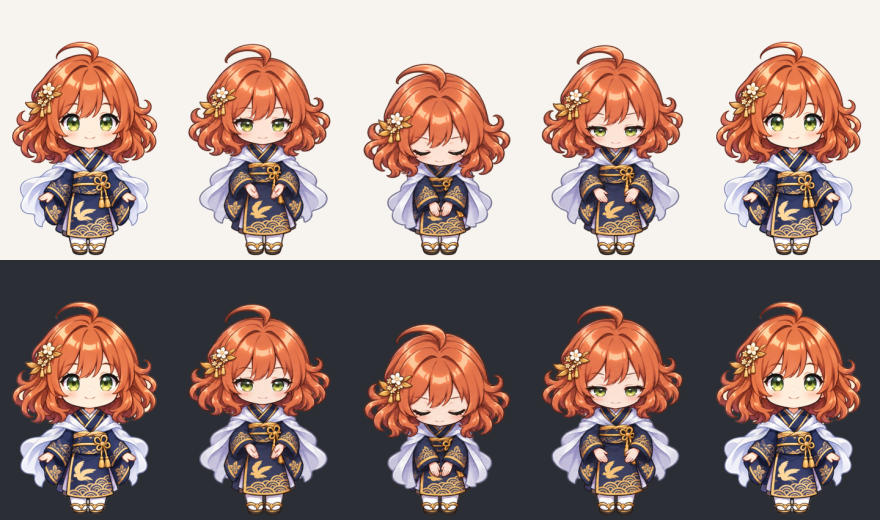
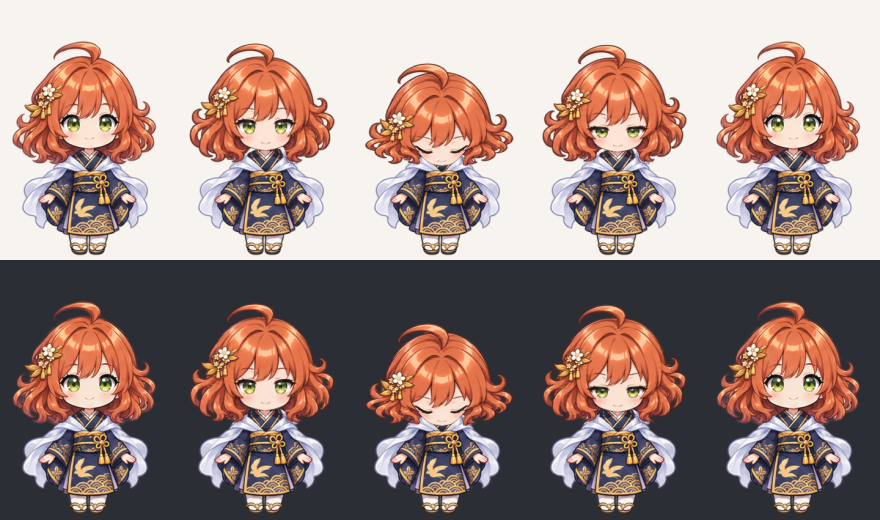
起動のお辞儀の肩と足を固定し、右クリックの左右の首かしげを揃える

diff --git a/artwork-review/startup-bow/README.md b/artwork-review/startup-bow/README.md
@@ -1,10 +1,36 @@
-# 起動のお辞儀 ｜ 素材レビュー
+# 起動のお辞儀
 
-[透過スプライト](sprite.png) ・ [260 DIP相当の比較](compare-260.png)
+再試用版 `28335730` の3枚の作画から伏し目、閉じたまぶた、流れる前髪を取り、製品の正面セルに肩の位置と胴の幅を合わせた。首の下の襟だけが前屈についていき、襟合わせの下端・両肩・袖・手・裾・足は元の座標に残る。頂点では顎が襟の上まで沈む。
 
-比較画像は左から **基準立ち絵 → 移行 → 頂点 → 戻り → 基準立ち絵**。上段は明色、下段は暗色の背景。各列は96 DPI想定の176×260 pxのウィンドウ、反応セルの描画域は176×225 px（上から35 px）。両端は指定コミットの `Mascot.png` を静止時の接地・寸法に合わせたもの。
+[明暗の等倍比較](compare-260.png) ・ [再生見本](playback-260.png) ・ [通常立ち絵との画素差](body-difference.png) ・ [基準セル](../conversation-open/reference-neutral.png)
 
-- RGBA PNG、864×368 px。左上を原点に、切り出し矩形 `[x,y,幅,高さ]` は `[0,0,288,368]`、`[288,0,288,368]`、`[576,0,288,368]`。共通足アンカーは各セルの `(144,360)`。
-- 再生案は既存の静止 → 左260 ms → 中150 ms → 右300 ms → 既存の静止。全3コマとも足裏の最下行は不透明度50%以上で y=359。頭頂はセル内で y=15 → 47 → 17。頂点で上体・襟・肩が沈み、両袖が寄り、手が揃う。比較画像で顔・鶴・飾りの向きと、明暗の輪郭を目視。
-- 三つの別作画を共通の倍率・足基準で配置。参照は `86fceaf8f7742112f7c0457c85ce02b400be06ad` の同梱素材。元の静止から移るところで開いた手が腹前へ寄る間隔は、再生で確認したい箇所。
-- 差し替え検討用。アプリへの組み込み、採用の確定、Windows実機での再生確認は未実施。
+各セルは288×368 px、足アンカーは `(144,360)`。スプライトは864×368 px。通常立ち絵から入り・頂点・戻りを経て通常へ戻る。再生時間は**520＋300＋600＝1,420 ms**。再生見本の最初の静止1秒はこの時間に含まない。
+
+| ポーズ | 切り出し（x, y, 幅, 高さ） | 時間 | 頭頂 y¹ | 個別PNGのGit blob SHA |
+| --- | --- | ---: | ---: | --- |
+| [入り](cells/entry.png) | 0, 0, 288, 368 | 520 ms | 15 | `f8d6940a88f4d7ab7c14d15456a30daa1325e250` |
+| [頂点](cells/apex.png) | 288, 0, 288, 368 | 300 ms | 47 | `dc446fcad7e5aac5192ab283e0fd27270e8238a6` |
+| [戻り](cells/recovery.png) | 576, 0, 288, 368 | 600 ms | 17 | `3d556189cee85734396a4d6173db89c78d1764cc` |
+
+¹ 不透明度128/255以上。通常の頭頂は `y=11`、お辞儀の頂点は `y=47`。旧稿と同じ36 pxの沈みを保った。会話窓を閉じる小会釈の頂点は `y=19` で、沈みは8 px。お辞儀の全コマで足裏の最下行は `y=359`。
+
+## 肩と足の確認
+
+基準は同梱 `MascotReactions.png` の左上288×368 pxを抜き出した正面セル（Git blob `802220f89a40e9ce58d775e6e8281545393de11e`）。セル座標のままRGBAの4チャンネルを比較した。差分画像の橙は変わった可視画素、灰は一致した可視画素。髪や顎が襟の手前を通る部分も橙に含む。
+
+| 比較範囲（x, y, 幅, 高さ） | 比較画素数／コマ | 入り・頂点・戻りの不一致画素数 |
+| --- | ---: | --- |
+| 左右の肩布（110,217,11,8 と 166,217,11,8） | 176 | 0・0・0 |
+| 左右の肩布の外側（82,218,25,11 と 183,218,25,11） | 550 | 0・0・0 |
+| 襟合わせの下端（125,216,41,10） | 410 | 0・0・0 |
+| 全幅の `y=216…367`（衣装、両手、裾、足と透明な余白） | 43,776 | 0・0・0 |
+| 足元（0,326,288,42） | 12,096 | 0・0・0 |
+
+等倍比較の左から通常・入り・頂点・戻り・通常。上段は明色、下段は暗色。96 DPIを想定した1枠176×260 pxで、反応セルは実描画寸法に合わせて約176×224.89 DIP、上端は約34.62 DIP。金の髪飾りは画面左、帯の結びは画面右。全コマでセル境界の非透明画素と完全透明画素に残る非ゼロRGBはともに0。Windows実機での修正版の確認は未実施。
+
+| 素材 | Git blob SHA |
+| --- | --- |
+| [透過スプライト](sprite.png) | `7c787505c3c4a09264d9ada5f7cf2787eede573b` |
+| [等倍の止め絵](compare-260.png) | `179577331d20e5bbcb944e187ddecfd45e787a51` |
+| [再生APNG](playback-260.png) | `d54864af787e22970fd9ea39880679f54d5987ae` |
+| [RGBA差分](body-difference.png) | `ca6108c1dbcf096bd8e2b65520e68b8c59b2ffd6` |

diff --git a/artwork-review/conversation-open/left-right.md b/artwork-review/conversation-open/left-right.md
@@ -1,0 +1,24 @@
+# 右クリック用の左右の首かしげ
+
+画面に向かって左を x の減る側、右を x の増える側とする。首の支点は両方向とも `(145,188)`。左向きは従来の [sprite.png](sprite.png) を再利用し、右向きは同じ[正面セル](reference-neutral.png)の髪・顔・目を使って反対へ傾けた。金の髪飾りはどちらも画面左、帯の結びは画面右。襟合わせと鶴の柄も同じ向きに残る。
+
+[左頂点・通常・右頂点の等倍比較](compare-left-right-260.png) ・ [左右を並べた同期再生](playback-left-right-260.png) ・ [右向きスプライト](sprite-right.png)
+
+上端から30 px以内の髪について不透明度128/255以上の画素の平均 x を測ると、通常は133.0。頂点では画面左の作画が112.0、画面右の作画が155.3になる。向きの判断は画面の中心を基準とし、髪飾りの側には依存しない。
+
+両スプライトは864×368 px。各セルは288×368 pxで、足アンカーは `(144,360)`。切り出しは入り `(0,0,288,368)`、頂点 `(288,0,288,368)`、戻り `(576,0,288,368)`。時間は180・180・220 ms（計580 ms）。最初の静止1秒は再生見本用。明色背景の各枠は176×260 pxで、96 DPIの表示寸法に合わせた。左と右を同じ時刻で見比べられる。
+
+| ポーズ | 画面左の個別PNGとGit blob SHA | 画面右の個別PNGとGit blob SHA |
+| --- | --- | --- |
+| 入り | [PNG](cells/left/entry.png) `a566210a5f2e4a129185067cf0dbe906cf32ccd4` | [PNG](cells/right/entry.png) `304af25522fc691d1f4daa42d512b5b792575136` |
+| 頂点 | [PNG](cells/left/apex.png) `96da6615d2299f6889fbd6a85f977205fdd6fbb7` | [PNG](cells/right/apex.png) `9dff1ef66f9f50999070e549f677570cf6e37d0b` |
+| 戻り | [PNG](cells/left/recovery.png) `df8ba8f4ce2364704b279170d5f63b1e9496f0d4` | [PNG](cells/right/recovery.png) `bb0731806402ce561a83541a900a03d8493e1f1b` |
+
+左3枚は既存シートの各セルの切り出し。正面と各コマをRGBAで比較すると、左右の肩布・襟の中央・足の差は全6枚で0画素。全幅の `y=214…367`（44,352画素／コマ）もすべて一致した。正面の見えている首と衣装・足で頭マスクが透明な24,920画素も全コマで一致。足裏は `y=359`。全コマでセル境界の非透明画素と完全透明画素に残る非ゼロRGBはともに0。Windows実機での右向きの再生は未確認。
+
+| 素材 | Git blob SHA |
+| --- | --- |
+| [左向きスプライト](sprite.png) | `433d5a6d9636b05f0c17d322fa5b8660bbb5dad7` |
+| [右向きスプライト](sprite-right.png) | `6bfe0c85ce033923951c51b20fb8c79d5c1593f6` |
+| [等倍の止め絵](compare-left-right-260.png) | `d8be6041b9f040d8cd3f7965075e30a7b74d4e10` |
+| [同期再生APNG](playback-left-right-260.png) | `4cb7d3d47d285408cac6108e6125fb0318aad769` |
